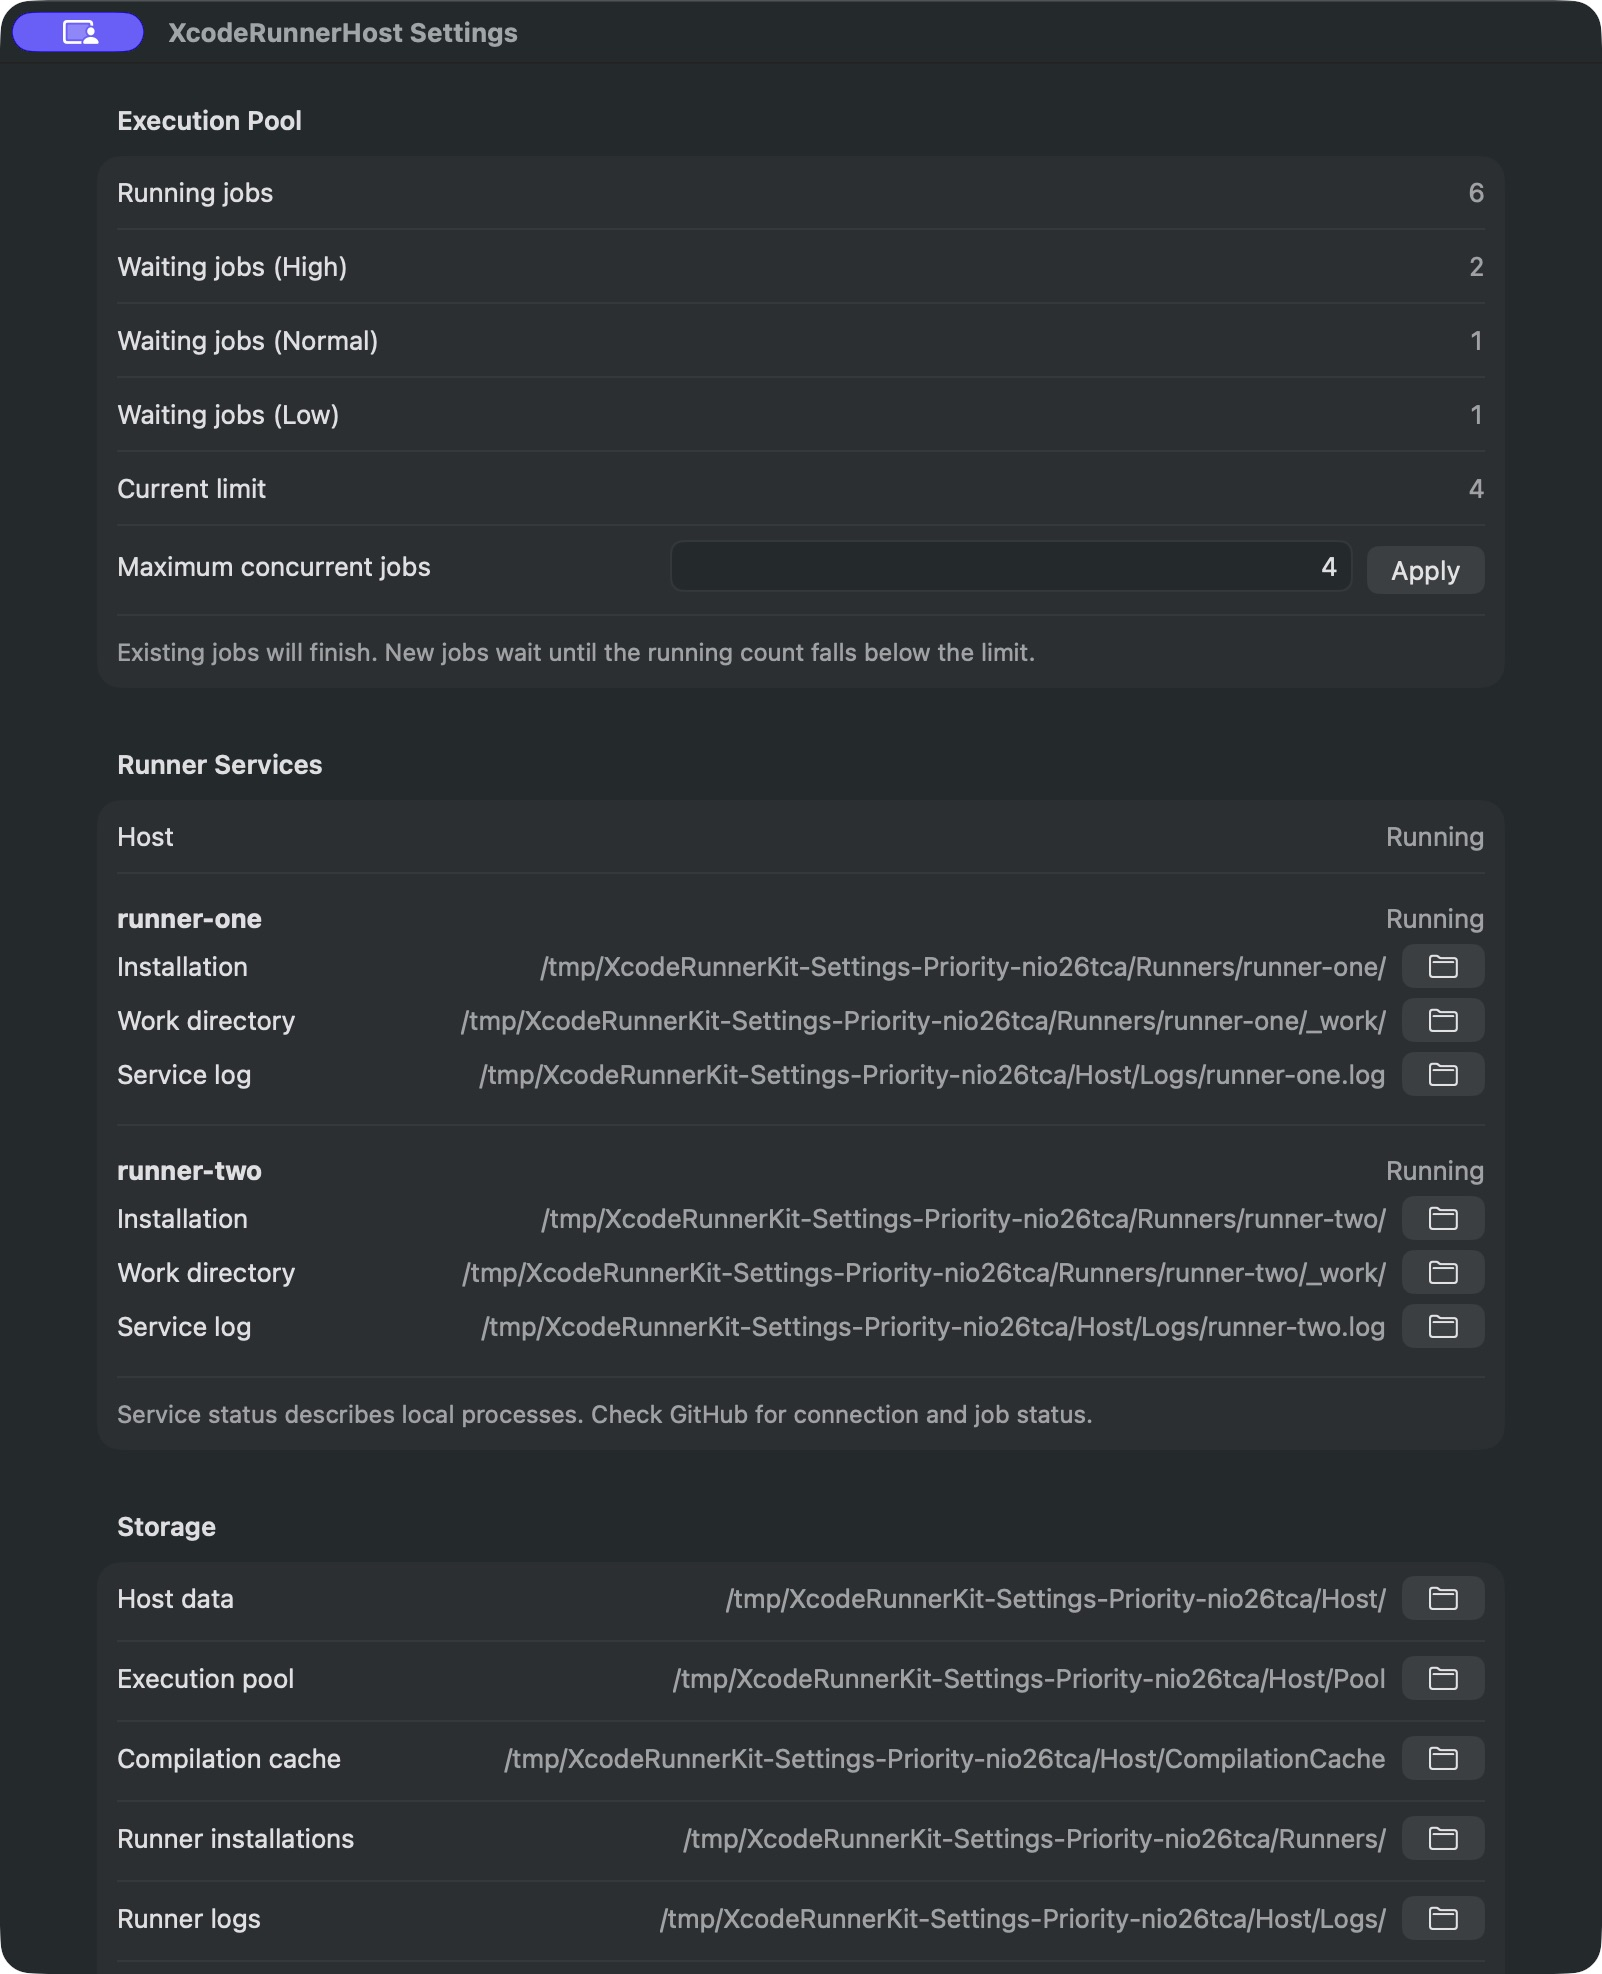
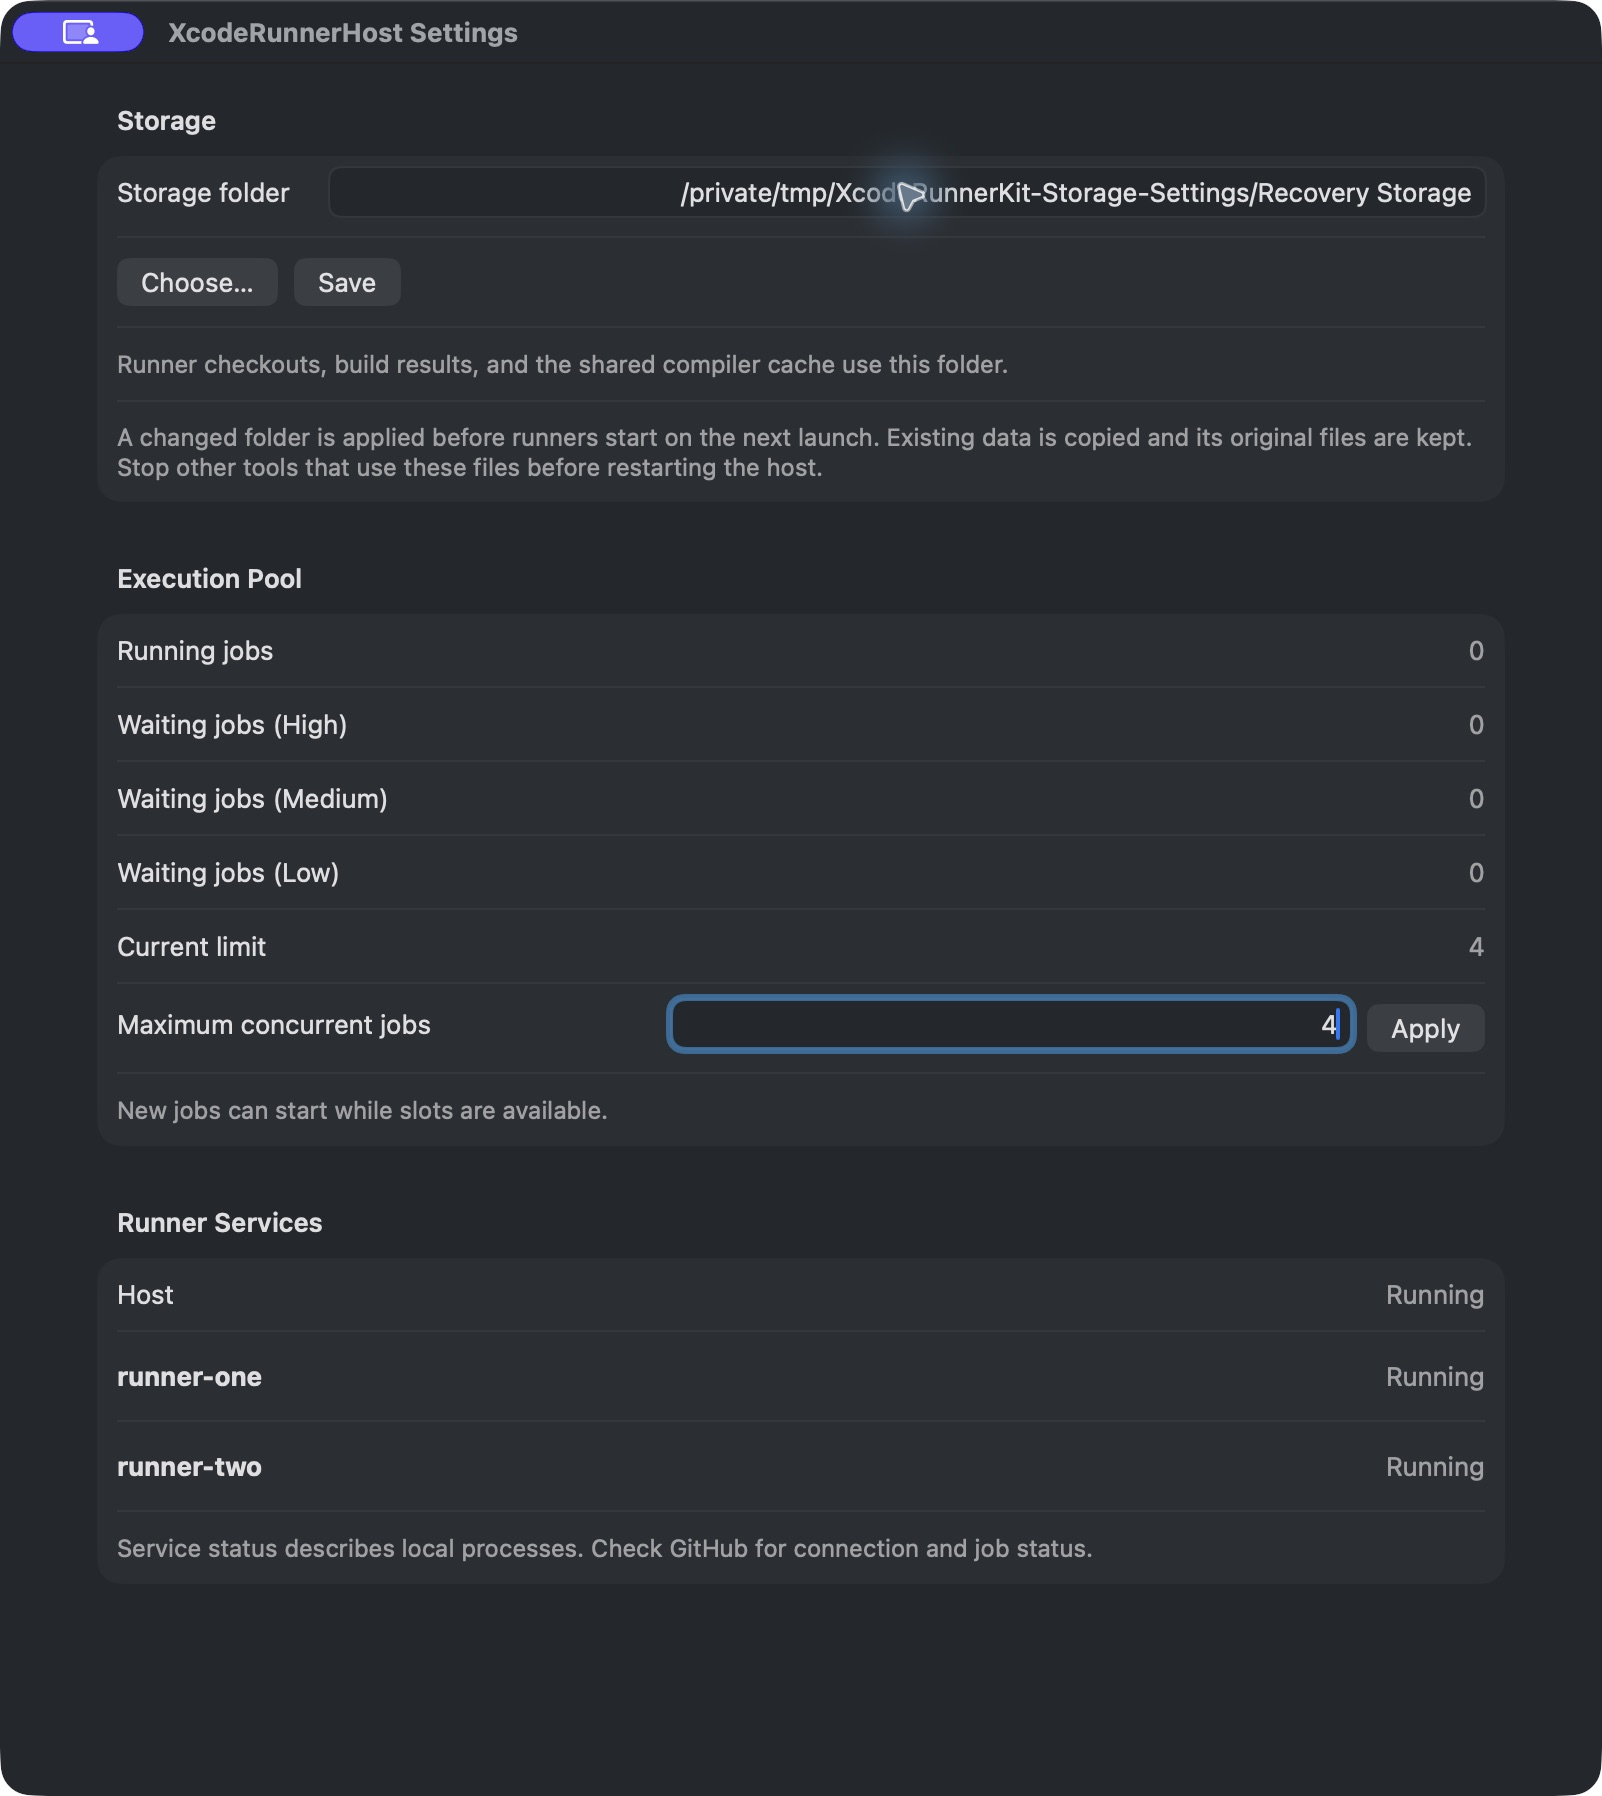
Verify host storage selection and update settings screenshot

diff --git a/Tests/XcodeRunnerHostTests/HostSettingsTests.swift b/Tests/XcodeRunnerHostTests/HostSettingsTests.swift
@@ -25,7 +25,7 @@ struct HostSettingsTests {
         #expect(settings.poolStatus?.maximumConcurrentJobs == 6)
         #expect(settings.poolStatus?.activeJobCount == 0)
         #expect(settings.poolStatus?.waitingJobCounts.total == 0)
-        #expect(settings.pool.directory == root.appending(path: "Host/Pool"))
+        #expect(settings.pool.directory == settings.installation.poolDirectory)
         try FileManager.default.removeItem(at: root)
     }
 

diff --git a/Documentation/NativeHost.md b/Documentation/NativeHost.md
@@ -127,7 +127,7 @@ Click the hammer icon in the menu bar and choose **Settings…**. The window sho
 - One storage folder for checkouts, build results, and the shared compiler
   cache. Choose a parent folder once; the host manages its subdirectories.
 
-![Host settings with six running jobs, a limit of four, and jobs waiting at each priority.](Images/HostSettings.png)
+![Host settings with one storage folder, a shared execution limit, and local runner service status.](Images/HostSettings.png)
 
 Enter a positive whole number and choose **Apply** to change the execution
 limit without restarting the host or runners. Decreasing from six to four
